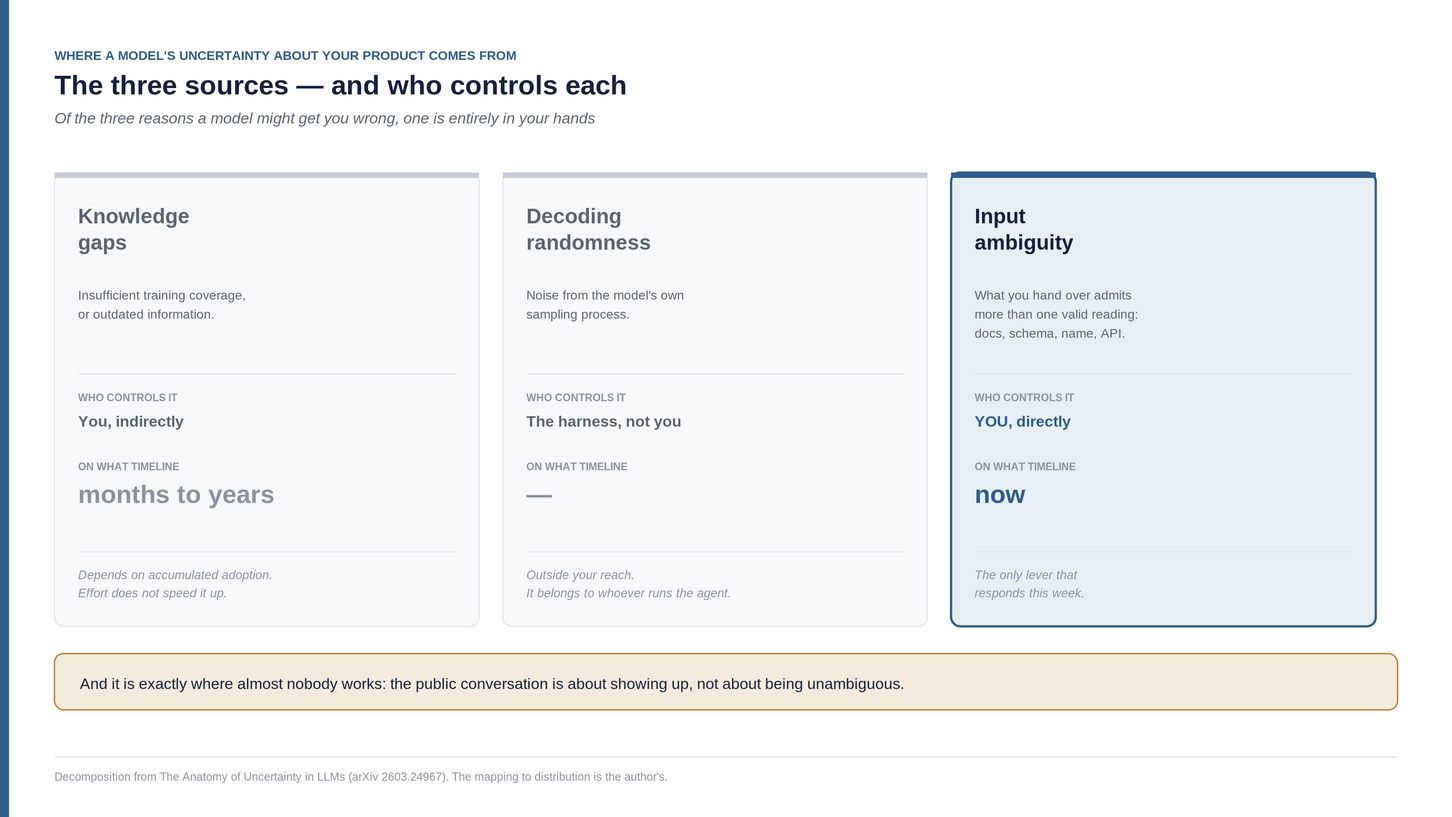
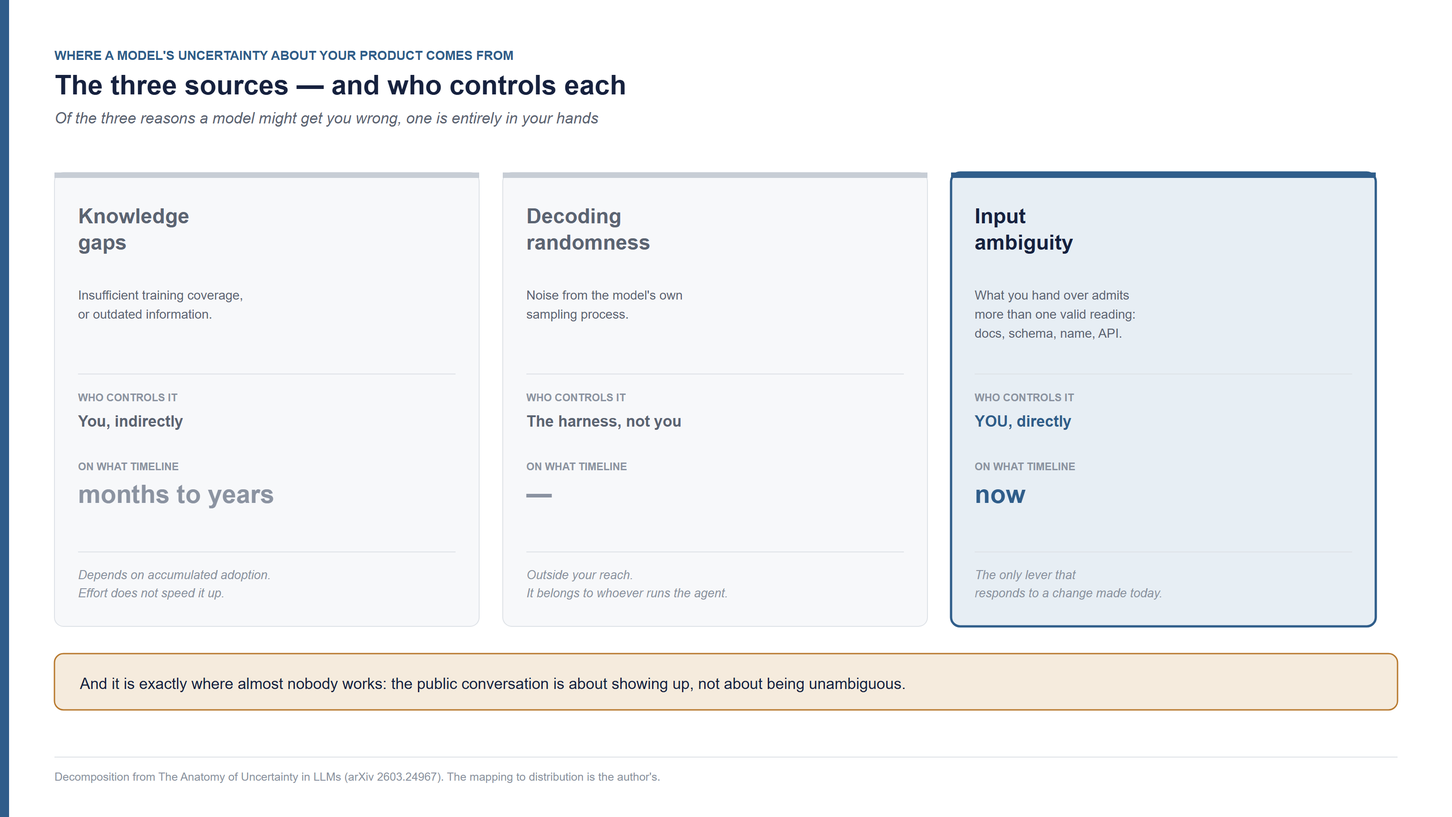
parte 3 publicada: legibilidade por maquina, nas duas linguas
Publicada no LinkedIn em 5 de agosto de 2026. O texto completo entra aqui nas
duas versoes, com os cinco visuais, e as referencias a ela nas partes 4 a 7
passam a apontar para as URLs reais.

Os geradores da parte 3 vem junto, como manda o fluxo: eles carregam o texto
da parte e so sao publicados depois que ela esta no ar.

Correcao no visual das tres fontes de incerteza, nas duas linguas: "responde
nesta semana" virou "responde a uma mudanca feita hoje". Data relativa ao
momento da escrita envelhece o texto, e a regra da serie a proibe.

diff --git a/scripts/gen_p3.py b/scripts/gen_p3.py
@@ -98,7 +98,7 @@ def v1():
         {"t": ["Ambiguidade", "de entrada"],
          "d": ["O que você entrega admite", "mais de uma leitura válida:", "docs, schema, nome, API."],
          "quem": "VOCÊ, diretamente", "prazo": "agora",
-         "acao": "É a única alavanca que", "acao2": "responde nesta semana.",
+         "acao": "É a única alavanca que", "acao2": "responde a uma mudança feita hoje.",
          "cor": ACCENT, "hl": True},
     ]
 

diff --git a/scripts/gen_p3_en.py b/scripts/gen_p3_en.py
@@ -98,7 +98,7 @@ def v1():
         {"t": ["Input", "ambiguity"],
          "d": ["What you hand over admits", "more than one valid reading:", "docs, schema, name, API."],
          "quem": "YOU, directly", "prazo": "now",
-         "acao": "The only lever that", "acao2": "responds this week.",
+         "acao": "The only lever that", "acao2": "responds to a change made today.",
          "cor": ACCENT, "hl": True},
     ]
 

diff --git a/artigos/en/03-machine-legibility.md b/artigos/en/03-machine-legibility.md
@@ -2,7 +2,7 @@
 Part 03 of the Builder-Led Growth series, by Matheus Ramos.
 CANONICAL VERSION (English).
 Portuguese counterpart: ../pt-br/03-legibilidade-por-maquina.md
-Text frozen. Scheduled for LinkedIn on 5 August 2026.
+Published on LinkedIn on 5 August 2026: https://www.linkedin.com/pulse/builder-led-growth-part-3-tax-machine-charges-human-matheus-oc20f/
 Generated from the private working repository. Do not edit here.
 -->
 
@@ -62,7 +62,7 @@ Notice what happened. The same company that publicly stated `llms.txt` doesn't a
 
 Part 2 argued that boundary with server logs. Now there's also an act by whoever operates the search engine, with a date attached.
 
-This settles, without rhetoric, the most common confusion about this thesis. GEO and AEO belong to this pillar — optimizing to be cited in generative answers and to be extracted as a direct answer are real, useful practices. But they're a **subset** of it, and they operate on one layer only: retrieval. A product can do well at GEO and remain impossible to use for an agent that needs to integrate it. Different problems.
+This settles, without rhetoric, the most common confusion about this thesis. GEO and AEO, *generative engine optimization* and *answer engine optimization*, belong to this pillar — optimizing to be cited in generative answers and to be extracted as a direct answer are real, useful practices. But they're a **subset** of it, and they operate on one layer only: retrieval. A product can do well at GEO and remain impossible to use for an agent that needs to integrate it. Different problems.
 
 ## Of the three sources of uncertainty, you control one
 
@@ -78,13 +78,7 @@ A 2026 paper proposes decomposing a language model's uncertainty into three dist
 
 The authors' stated motivation is practical: a single score doesn't tell you what to do. The decomposition does. High input uncertainty calls for clarification; high knowledge uncertainty calls for retrieval or more data; high decoding uncertainty calls for adjusting the sampling strategy.
 
-Those three sources map almost directly onto the three decision inputs I proposed in part 2 — and that connection is mine, not the authors'. But what matters here is what the decomposition reveals when you ask *who controls what*:
-
-| Source of uncertainty | Who controls it | On what timeline |
-|---|---|---|
-| Knowledge gaps | you, indirectly | months to years |
-| Decoding randomness | the harness, not you | — |
-| **Input ambiguity** | **you, directly** | **now** |
+Those three sources map almost directly onto the three decision inputs I proposed in part 2 — and that connection is mine, not the authors'. But what matters here is what the decomposition reveals when you ask *who controls what*. Knowledge gaps you control indirectly, on a timeline of months to years. Decoding randomness is controlled by the harness, not by you. **Input ambiguity is yours, directly, and now.**
 
 Of the three reasons a model might get your product wrong, one is entirely in your hands, and it's the only one that responds to a change made today.
 
@@ -96,14 +90,12 @@ Part 2 spoke of "a lag I estimate at 18 to 36 months, accounting for collection,
 
 The gap between a model's cutoff date and its release is considerably smaller, and it has been shrinking:
 
-| Model | Release | Cutoff | Gap |
-|---|---|---|---|
-| GPT-3 | Jun 2020 | Oct 2019 | ~8 months |
-| ChatGPT (GPT-3.5) | Nov 2022 | Sep 2021 | ~14 months |
-| GPT-4 | Mar 2023 | Sep 2021 | ~18 months |
-| GPT-4 Turbo | Nov 2023 | Apr 2023 | ~7 months |
-| Claude Fable 5 | Jun 2026 | Jan 2026 | ~5 months |
-| GPT-5.6 Sol | Jul 2026 | Feb 2026 | ~5 months |
+- **GPT-3**, released June 2020, cutoff October 2019 — about 8 months
+- **ChatGPT (GPT-3.5)**, November 2022, cutoff September 2021 — about 14 months
+- **GPT-4**, March 2023, cutoff September 2021 — about 18 months
+- **GPT-4 Turbo**, November 2023, cutoff April 2023 — about 7 months
+- **Claude Fable 5**, June 2026, cutoff January 2026 — about 5 months
+- **GPT-5.6 Sol**, July 2026, cutoff February 2026 — about 5 months
 
 The curve rises through GPT-4 and falls afterward. Today the typical gap sits between 5 and 8 months ([Otterly](https://otterly.ai/blog/knowledge-cutoff/), [RankScope](https://rankscope.ai/blog/chatgpt-knowledge-cutoff)).
 
@@ -172,7 +164,7 @@ One supporting datapoint shows the size of the effect. Filtering which tools the
 
 Now, what's new here for anyone thinking about growth.
 
-**Your distinctness depends on what everyone else named.** If three servers expose a tool called `search`, none of the three is chosen on merit — the model selects arbitrarily among them. There's no equivalent to this in PLG. There, a bad name costs you. Here, your competitor's name costs you too.
+**Your distinctness depends on what everyone else named.** If three servers expose a tool called `search`, none of the three is chosen on merit — the model selects arbitrarily among them. There's no equivalent to this in PLG, product-led growth, where the product itself pulls adoption. There, a bad name costs you. Here, your competitor's name costs you too.
 
 Worth noting the study's own framing: one of its research questions is the extent to which fixing these problems **enhances the competitive advantage** of an MCP server. That's this article's thesis written in software engineering vocabulary, by people who aren't discussing distribution.
 
@@ -308,7 +300,7 @@ There's also a less-discussed effect: the cost of **responses**. A single call t
 
 "Publish an MCP server" became standard advice. The data suggests a more careful reading: a poorly designed server is a **cost imposed on the user**. It occupies context that would have belonged to that person's work.
 
-And here there's a consequence that closes a circuit with part 2.
+And here there's a consequence that closes a circuit with part 2, which opened the decision and the price.
 
 Part 2 described the hidden cost of removing friction: keyless onboarding makes the agent consume the quota faster and pulls forward the moment someone has to decide about money. Context cost produces the same effect by another route — and this one is harder to see, because **the cost doesn't appear on your invoice, it appears on the user's**.
 
@@ -370,7 +362,7 @@ What it means for the thesis, if it advances: any site — e-commerce, SaaS with
 
 Part 2 dealt with measurement by stage of the decision. Here are the measures specific to legibility, in order of increasing cost.
 
-**Citation accuracy rate.** I proposed this in part 2; now the mechanism is explained. A list of twenty questions about your domain, reviewed manually once a month: when the model mentions you, does it get the package name, the install command, the method right? When it gets it wrong, the cause is usually one of two things we saw here — either it doesn't know who you are and resolved your name to another entity, or it learned two incompatible versions of you and picked the wrong one.
+**Citation accuracy rate.** I proposed this in part 2, when the subject was what to measure; now the mechanism is explained. A list of twenty questions about your domain, reviewed manually once a month: when the model mentions you, does it get the package name, the install command, the method right? When it gets it wrong, the cause is usually one of two things we saw here — either it doesn't know who you are and resolved your name to another entity, or it learned two incompatible versions of you and picked the wrong one.
 
 **Semantic dispersion.** Derived from uncertainty quantification methods: ask the same question about your product several times and measure how far the answers diverge **in meaning**, not in wording. The distinction matters — token-level entropy captures phrasing variation and can't tell that apart from real ambiguity, which is why the literature developed semantic entropy measures. High dispersion about you is an indirect measure of ambiguity in your surface.
 

diff --git a/artigos/pt-br/04-acessibilidade-operacional.md b/artigos/pt-br/04-acessibilidade-operacional.md
@@ -8,7 +8,7 @@ Gerado a partir do repositório privado de trabalho. Não editar aqui.
 
 # Builder-Led Growth, parte 4: quantas vezes o agente precisa chamar um humano
 
-*Quarta parte da série sobre Builder-Led Growth. A [parte 1](https://www.linkedin.com/pulse/builder-lead-growth-matheus-batista-ribeiro-ramos-mde2c) nomeou a disciplina e propôs quatro pilares. A [parte 2](https://www.linkedin.com/pulse/builder-led-growth-parte-2-decis%C3%A3o-o-pre%C3%A7o-e-que-matheus-nqnuf/) abriu o mecanismo da decisão e o papel do preço. A [parte 3]([ler](03-legibilidade-por-maquina.md)) tratou do primeiro pilar, legibilidade por máquina. Esta abre o segundo — e ele se resume a uma pergunta que dá para contar.*
+*Quarta parte da série sobre Builder-Led Growth. A [parte 1](https://www.linkedin.com/pulse/builder-lead-growth-matheus-batista-ribeiro-ramos-mde2c) nomeou a disciplina e propôs quatro pilares. A [parte 2](https://www.linkedin.com/pulse/builder-led-growth-parte-2-decis%C3%A3o-o-pre%C3%A7o-e-que-matheus-nqnuf/) abriu o mecanismo da decisão e o papel do preço. A [parte 3](https://www.linkedin.com/pulse/builder-led-growth-parte-3-o-imposto-que-m%C3%A1quina-e-v%C3%AA-matheus-768vf/) tratou do primeiro pilar, legibilidade por máquina. Esta abre o segundo — e ele se resume a uma pergunta que dá para contar.*
 
 ## Os quatro pilares, em uma página
 
@@ -72,7 +72,7 @@ Aqui preciso ser rigoroso comigo mesmo, porque a tentação é grande. Não sei 
 
 O que dá para afirmar é mais estreito e ainda assim incômodo: **essa saída existe, é invisível na instrumentação que os produtos têm hoje, e o tamanho dela é desconhecido para quem a sofre.** Você não vê a fila de gente desistindo porque não há fila. Vê um número de ativações que parece razoável, sem denominador.
 
-É a mesma forma de falha silenciosa que a parte 3, [o imposto que a máquina cobra e o humano não vê]([ler](03-legibilidade-por-maquina.md)), encontrou na desambiguação de nome — quando o modelo não resolve a quem um nome se refere, a atribuição some, e nenhuma métrica de erro acusa, porque nada deu errado. Aqui a falha acontece uma camada depois, na execução, e some do mesmo jeito.
+É a mesma forma de falha silenciosa que a parte 3, [o imposto que a máquina cobra e o humano não vê](https://www.linkedin.com/pulse/builder-led-growth-parte-3-o-imposto-que-m%C3%A1quina-e-v%C3%AA-matheus-768vf/), encontrou na desambiguação de nome — quando o modelo não resolve a quem um nome se refere, a atribuição some, e nenhuma métrica de erro acusa, porque nada deu errado. Aqui a falha acontece uma camada depois, na execução, e some do mesmo jeito.
 
 E há um jeito de medir, ainda que indireto, que trago mais adiante na seção sobre o que acompanhar: instrumentar o lado do agente, e não o seu. Quem opera a frota de agentes vê a desistência que você não vê.
 
@@ -148,7 +148,7 @@ A revisão publicada em 28 de julho de 2026 é a maior mudança que o protocolo 
 
 ***Resource Indicators*.** O token passa a ficar amarrado ao destino para o qual foi emitido. Se vazar, não serve em outro lugar — o que reduz o tamanho do estrago daquele item anterior sobre chaves em código público.
 
-**Cache da listagem de ferramentas.** O `tools/list`, que é como o agente descobre o que existe, passa a poder ser cacheado. Ataca diretamente o custo de contexto medido na parte 3, [o imposto que a máquina cobra e o humano não vê]([ler](03-legibilidade-por-maquina.md)), e que a seção seguinte retoma com números.
+**Cache da listagem de ferramentas.** O `tools/list`, que é como o agente descobre o que existe, passa a poder ser cacheado. Ataca diretamente o custo de contexto medido na parte 3, [o imposto que a máquina cobra e o humano não vê](https://www.linkedin.com/pulse/builder-led-growth-parte-3-o-imposto-que-m%C3%A1quina-e-v%C3%AA-matheus-768vf/), e que a seção seguinte retoma com números.
 
 [David Soria Parra](https://www.linkedin.com/in/david-soria-parra-4a78b3a), um dos criadores do MCP e hoje seu mantenedor principal na Anthropic, reconhece publicamente o problema de excesso de contexto e descreve a direção do protocolo nos mesmos termos: descoberta progressiva, transporte sem estado, composição por código. Não é uma crítica externa que o protocolo ignora — é o diagnóstico de quem o construiu.
 
@@ -192,7 +192,7 @@ Ainda em abril e maio de 2026 apareceram os trilhos de pagamento: **Stripe Link 
 
 Isso responde diretamente a uma recomendação que a parte 2 fez sem ter como cumprir: ter um caminho de receita que a máquina consiga percorrer. Naquele momento era uma boa ideia sem infraestrutura. Agora a infraestrutura existe.
 
-E há um reconhecimento mais silencioso, que eu acho o mais revelador dos três. A Cloudflare publicou uma superfície de documentação dedicada a agentes, separada da documentação para pessoas, em `developers.cloudflare.com/docs-for-agents/`. É a admissão explícita de que o leitor-agente e o leitor-humano querem visões diferentes do mesmo material — que é a inversão descrita na parte 3, [o imposto que a máquina cobra e o humano não vê]([ler](03-legibilidade-por-maquina.md)), virando estrutura de site.
+E há um reconhecimento mais silencioso, que eu acho o mais revelador dos três. A Cloudflare publicou uma superfície de documentação dedicada a agentes, separada da documentação para pessoas, em `developers.cloudflare.com/docs-for-agents/`. É a admissão explícita de que o leitor-agente e o leitor-humano querem visões diferentes do mesmo material — que é a inversão descrita na parte 3, [o imposto que a máquina cobra e o humano não vê](https://www.linkedin.com/pulse/builder-led-growth-parte-3-o-imposto-que-m%C3%A1quina-e-v%C3%AA-matheus-768vf/), virando estrutura de site.
 
 ## O que herdamos, e o que acrescentamos
 
@@ -370,7 +370,7 @@ Na parte 5 entra o terceiro pilar, comunidade e sinal de validação. É o pilar
 
 - [Parte 1 — Quando a máquina também é seu cliente](https://www.linkedin.com/pulse/builder-lead-growth-matheus-batista-ribeiro-ramos-mde2c)
 - [Parte 2 — A decisão, o preço e o que medir](https://www.linkedin.com/pulse/builder-led-growth-parte-2-decis%C3%A3o-o-pre%C3%A7o-e-que-matheus-nqnuf/)
-- Parte 3 — O imposto que a máquina cobra e o humano não vê: [ler](03-legibilidade-por-maquina.md)
+- Parte 3 — O imposto que a máquina cobra e o humano não vê: https://www.linkedin.com/pulse/builder-led-growth-parte-3-o-imposto-que-m%C3%A1quina-e-v%C3%AA-matheus-768vf/
 - Parte 4 — Quantas vezes o agente precisa chamar um humano (este texto)
 
 A série continua. Cada parte aprofunda um pedaço do que a anterior só conseguiu apontar, e este bloco é atualizado conforme as próximas saem.

diff --git a/artigos/en/04-operational-accessibility.md b/artigos/en/04-operational-accessibility.md
@@ -8,7 +8,7 @@ Generated from the private working repository. Do not edit here.
 
 # Builder-Led Growth, part 4: how many times the agent has to call a human
 
-*Fourth part of the Builder-Led Growth series. [Part 1](https://www.linkedin.com/pulse/builder-led-growth-when-machine-also-your-customer-matheus-inudf/) named the discipline and proposed four pillars. [Part 2](https://www.linkedin.com/pulse/builder-led-growth-part-2-decision-price-what-measure-matheus-0ahff/) opened up the decision mechanism and the role of pricing. [Part 3]([read](03-machine-legibility.md)) covered the first pillar, machine legibility. This one opens the second — and it comes down to a question you can actually count.*
+*Fourth part of the Builder-Led Growth series. [Part 1](https://www.linkedin.com/pulse/builder-led-growth-when-machine-also-your-customer-matheus-inudf/) named the discipline and proposed four pillars. [Part 2](https://www.linkedin.com/pulse/builder-led-growth-part-2-decision-price-what-measure-matheus-0ahff/) opened up the decision mechanism and the role of pricing. [Part 3](https://www.linkedin.com/pulse/builder-led-growth-part-3-tax-machine-charges-human-matheus-oc20f/) covered the first pillar, machine legibility. This one opens the second — and it comes down to a question you can actually count.*
 
 ## The four pillars, on one page
 
@@ -72,7 +72,7 @@ Here I have to be strict with myself, because the temptation is strong. I don't 
 
 What holds up is narrower and still uncomfortable: **this ending exists, it is invisible to the instrumentation products have today, and its size is unknown to whoever it happens to.** You don't see the queue of people giving up, because there is no queue. You see an activation number that looks reasonable, with no denominator.
 
-It's the same shape of silent failure part 3, [the tax the machine charges and the human never sees]([read](03-machine-legibility.md)), found in name disambiguation — when the model can't resolve what a name refers to, the attribution disappears, and no error metric flags it, because nothing went wrong. Here the failure happens one layer later, at execution, and vanishes the same way.
+It's the same shape of silent failure part 3, [the tax the machine charges and the human never sees](https://www.linkedin.com/pulse/builder-led-growth-part-3-tax-machine-charges-human-matheus-oc20f/), found in name disambiguation — when the model can't resolve what a name refers to, the attribution disappears, and no error metric flags it, because nothing went wrong. Here the failure happens one layer later, at execution, and vanishes the same way.
 
 And there is a way to measure it, indirect, which I get to further down in the section on what to track: instrument the agent's side, not yours. Whoever runs the fleet of agents sees the abandonment you can't.
 
@@ -148,7 +148,7 @@ The revision published on 28 July 2026 is the largest change the protocol has ha
 
 ***Resource Indicators*.** The token becomes bound to the destination it was issued for. If it leaks, it doesn't work anywhere else — which shrinks the damage from that earlier item about keys in public code.
 
-**Tool listing cache.** The `tools/list` call, which is how an agent discovers what exists, can now be cached. It attacks directly the context cost measured in part 3, [the tax the machine charges and the human never sees]([read](03-machine-legibility.md)), which the next section picks up with numbers.
+**Tool listing cache.** The `tools/list` call, which is how an agent discovers what exists, can now be cached. It attacks directly the context cost measured in part 3, [the tax the machine charges and the human never sees](https://www.linkedin.com/pulse/builder-led-growth-part-3-tax-machine-charges-human-matheus-oc20f/), which the next section picks up with numbers.
 
 [David Soria Parra](https://www.linkedin.com/in/david-soria-parra-4a78b3a), one of MCP's creators and now its lead maintainer at Anthropic, publicly acknowledges the context-bloat problem and describes the protocol's direction in the same terms: progressive discovery, stateless transport, composition through code. This isn't an outside critique the protocol ignores — it's the diagnosis of the people who built it.
 
@@ -192,7 +192,7 @@ Still in April and May 2026 the payment rails arrived: **Stripe Link Wallet for 
 
 That answers directly a recommendation part 2 made without any way to fulfil it: having a revenue path a machine can walk. At the time it was a good idea with no infrastructure. Now the infrastructure exists.
 
-And there's a quieter acknowledgement, which I find the most revealing of the three. Cloudflare published a documentation surface dedicated to agents, separate from the documentation for people, at `developers.cloudflare.com/docs-for-agents/`. It's the explicit admission that the agent-reader and the human-reader want different views of the same material — which is the inversion described in part 3, [the tax the machine charges and the human never sees]([read](03-machine-legibility.md)), turning into site structure.
+And there's a quieter acknowledgement, which I find the most revealing of the three. Cloudflare published a documentation surface dedicated to agents, separate from the documentation for people, at `developers.cloudflare.com/docs-for-agents/`. It's the explicit admission that the agent-reader and the human-reader want different views of the same material — which is the inversion described in part 3, [the tax the machine charges and the human never sees](https://www.linkedin.com/pulse/builder-led-growth-part-3-tax-machine-charges-human-matheus-oc20f/), turning into site structure.
 
 ## What we inherited, and what we add
 
@@ -370,7 +370,7 @@ Part 5 takes on the third pillar, community and validation signal. It's the pill
 
 - [Part 1 — When the machine is also your customer](https://www.linkedin.com/pulse/builder-led-growth-when-machine-also-your-customer-matheus-inudf/)
 - [Part 2 — The decision, the price and what to measure](https://www.linkedin.com/pulse/builder-led-growth-part-2-decision-price-what-measure-matheus-0ahff/)
-- Part 3 — The tax the machine charges and the human never sees: [read](03-machine-legibility.md)
+- Part 3 — The tax the machine charges and the human never sees: https://www.linkedin.com/pulse/builder-led-growth-part-3-tax-machine-charges-human-matheus-oc20f/
 - Part 4 — How many times the agent has to call a human (this piece)
 
 The series continues. Each part goes deeper into something the previous one could only point at, and this block is updated as the next ones come out.

diff --git a/README.md b/README.md
@@ -25,14 +25,14 @@ página e os arquivos de contrato para agentes estão em inglês por alcance.*
 - **[Part 2 — The decision, the price and what to measure](artigos/en/02-decision-price-and-measurement.md)** — Three inputs to the decision, three stages, the economic limit, pricing design. Cases: Drizzle and Prisma, Better Auth and Clerk, Firecrawl, Tailwind Labs.  
   Published 2026-07-30 · [read on LinkedIn](https://www.linkedin.com/pulse/builder-led-growth-part-2-decision-price-what-measure-matheus-0ahff/)
   · Português: [Parte 2 — A decisão, o preço e o que medir](artigos/pt-br/02-decisao-preco-e-medicao.md) — publicado em 2026-07-30 · [ler no LinkedIn](https://www.linkedin.com/pulse/builder-led-growth-parte-2-decis%C3%A3o-o-pre%C3%A7o-e-que-matheus-nqnuf/)
+- **[Part 3 — The tax the machine charges and the human never sees](artigos/en/03-machine-legibility.md)** — Pillar 1. Ambiguity in four layers, context cost, the inversion between optimising for human and for machine.  
+  Published 2026-08-05 · [read on LinkedIn](https://www.linkedin.com/pulse/builder-led-growth-part-3-tax-machine-charges-human-matheus-oc20f/)
+  · Português: [Parte 3 — O imposto que a máquina cobra e o humano não vê](artigos/pt-br/03-legibilidade-por-maquina.md) — publicado em 2026-08-05 · [ler no LinkedIn](https://www.linkedin.com/pulse/builder-led-growth-parte-3-o-imposto-que-m%C3%A1quina-e-v%C3%AA-matheus-768vf/)
 
 ### Coming next
 
 Written and final. Scheduled for LinkedIn on the dates below; the text here does not change when it goes out.
 
-- **[Part 3 — The tax the machine charges and the human never sees](artigos/en/03-machine-legibility.md)** — Pillar 1. Ambiguity in four layers, context cost, the inversion between optimising for human and for machine.  
-  LinkedIn: 5 August 2026
-  · Português: [Parte 3 — O imposto que a máquina cobra e o humano não vê](artigos/pt-br/03-legibilidade-por-maquina.md) — LinkedIn: 4 de agosto de 2026
 - **[Part 4 — How many times the agent has to call a human](artigos/en/04-operational-accessibility.md)** — Pillar 2. The three endings of every human stop, the credential as the common blocker, the permanent cost of being available, and an open falsification protocol that has not been run.  
   LinkedIn: 7 August 2026
   · Português: [Parte 4 — Quantas vezes o agente precisa chamar um humano](artigos/pt-br/04-acessibilidade-operacional.md) — LinkedIn: 6 de agosto de 2026

diff --git a/artigos/pt-br/07-confianca-e-seguranca.md b/artigos/pt-br/07-confianca-e-seguranca.md
@@ -431,7 +431,7 @@ Este texto fecha o primeiro arco da série — os quatro pilares, propostos na p
 
 - [Parte 1 — Quando a máquina também é seu cliente](https://www.linkedin.com/pulse/builder-lead-growth-matheus-batista-ribeiro-ramos-mde2c)
 - [Parte 2 — A decisão, o preço e o que medir](https://www.linkedin.com/pulse/builder-led-growth-parte-2-decis%C3%A3o-o-pre%C3%A7o-e-que-matheus-nqnuf/)
-- Parte 3 — O imposto que a máquina cobra e o humano não vê: [ler](03-legibilidade-por-maquina.md)
+- Parte 3 — O imposto que a máquina cobra e o humano não vê: https://www.linkedin.com/pulse/builder-led-growth-parte-3-o-imposto-que-m%C3%A1quina-e-v%C3%AA-matheus-768vf/
 - Parte 4 — Quantas vezes o agente precisa chamar um humano: [ler](04-acessibilidade-operacional.md)
 - Parte 5 — O poço de onde todos bebem: [ler](05-comunidade-e-sinal-de-validacao.md)
 - Parte 6 — A máquina é imprensa e leitor ao mesmo tempo: [ler](06-relacoes-publicas.md)

diff --git a/artigos/en/07-trust-and-safety.md b/artigos/en/07-trust-and-safety.md
@@ -431,7 +431,7 @@ This text closes the first arc of the series — the four pillars, proposed in p
 
 - [Part 1 — When the machine is also your customer](https://www.linkedin.com/pulse/builder-led-growth-when-machine-also-your-customer-matheus-inudf/)
 - [Part 2 — The decision, the price and what to measure](https://www.linkedin.com/pulse/builder-led-growth-part-2-decision-price-what-measure-matheus-0ahff/)
-- Part 3 — The tax the machine charges and the human never sees: [read](03-machine-legibility.md)
+- Part 3 — The tax the machine charges and the human never sees: https://www.linkedin.com/pulse/builder-led-growth-part-3-tax-machine-charges-human-matheus-oc20f/
 - Part 4 — How many times the agent has to call a human: [read](04-operational-accessibility.md)
 - Part 5 — The well everyone drinks from: [read](05-community-and-validation-signal.md)
 - Part 6 — The machine is press and reader at once: [read](06-public-relations.md)

diff --git a/artigos/pt-br/06-relacoes-publicas.md b/artigos/pt-br/06-relacoes-publicas.md
@@ -349,7 +349,7 @@ Na parte 7 entra o quarto pilar — confiança e segurança do modelo. É o úni
 
 - [Parte 1 — Quando a máquina também é seu cliente](https://www.linkedin.com/pulse/builder-lead-growth-matheus-batista-ribeiro-ramos-mde2c)
 - [Parte 2 — A decisão, o preço e o que medir](https://www.linkedin.com/pulse/builder-led-growth-parte-2-decis%C3%A3o-o-pre%C3%A7o-e-que-matheus-nqnuf/)
-- Parte 3 — O imposto que a máquina cobra e o humano não vê: [ler](03-legibilidade-por-maquina.md)
+- Parte 3 — O imposto que a máquina cobra e o humano não vê: https://www.linkedin.com/pulse/builder-led-growth-parte-3-o-imposto-que-m%C3%A1quina-e-v%C3%AA-matheus-768vf/
 - Parte 4 — Quantas vezes o agente precisa chamar um humano: [ler](04-acessibilidade-operacional.md)
 - Parte 5 — O poço de onde todos bebem: [ler](05-comunidade-e-sinal-de-validacao.md)
 - Parte 6 — A máquina é imprensa e leitor ao mesmo tempo (este texto)

diff --git a/artigos/en/06-public-relations.md b/artigos/en/06-public-relations.md
@@ -349,7 +349,7 @@ Part 7 takes on the fourth pillar — model trust and safety. It is the only one
 
 - [Part 1 — When the machine is also your customer](https://www.linkedin.com/pulse/builder-led-growth-when-machine-also-your-customer-matheus-inudf/)
 - [Part 2 — The decision, the price and what to measure](https://www.linkedin.com/pulse/builder-led-growth-part-2-decision-price-what-measure-matheus-0ahff/)
-- Part 3 — The tax the machine charges and the human never sees: [read](03-machine-legibility.md)
+- Part 3 — The tax the machine charges and the human never sees: https://www.linkedin.com/pulse/builder-led-growth-part-3-tax-machine-charges-human-matheus-oc20f/
 - Part 4 — How many times the agent has to call a human: [read](04-operational-accessibility.md)
 - Part 5 — The well everyone drinks from: [read](05-community-and-validation-signal.md)
 - Part 6 — The machine is press and reader at once (this piece)

diff --git a/artigos/pt-br/05-comunidade-e-sinal-de-validacao.md b/artigos/pt-br/05-comunidade-e-sinal-de-validacao.md
@@ -352,7 +352,7 @@ Na parte 6 entra o que Relações Públicas já sabia sobre isto desde 1984 — 
 
 - [Parte 1 — Quando a máquina também é seu cliente](https://www.linkedin.com/pulse/builder-lead-growth-matheus-batista-ribeiro-ramos-mde2c)
 - [Parte 2 — A decisão, o preço e o que medir](https://www.linkedin.com/pulse/builder-led-growth-parte-2-decis%C3%A3o-o-pre%C3%A7o-e-que-matheus-nqnuf/)
-- Parte 3 — O imposto que a máquina cobra e o humano não vê: [ler](03-legibilidade-por-maquina.md)
+- Parte 3 — O imposto que a máquina cobra e o humano não vê: https://www.linkedin.com/pulse/builder-led-growth-parte-3-o-imposto-que-m%C3%A1quina-e-v%C3%AA-matheus-768vf/
 - Parte 4 — Quantas vezes o agente precisa chamar um humano: [ler](04-acessibilidade-operacional.md)
 - Parte 5 — O poço de onde todos bebem (este texto)
 
